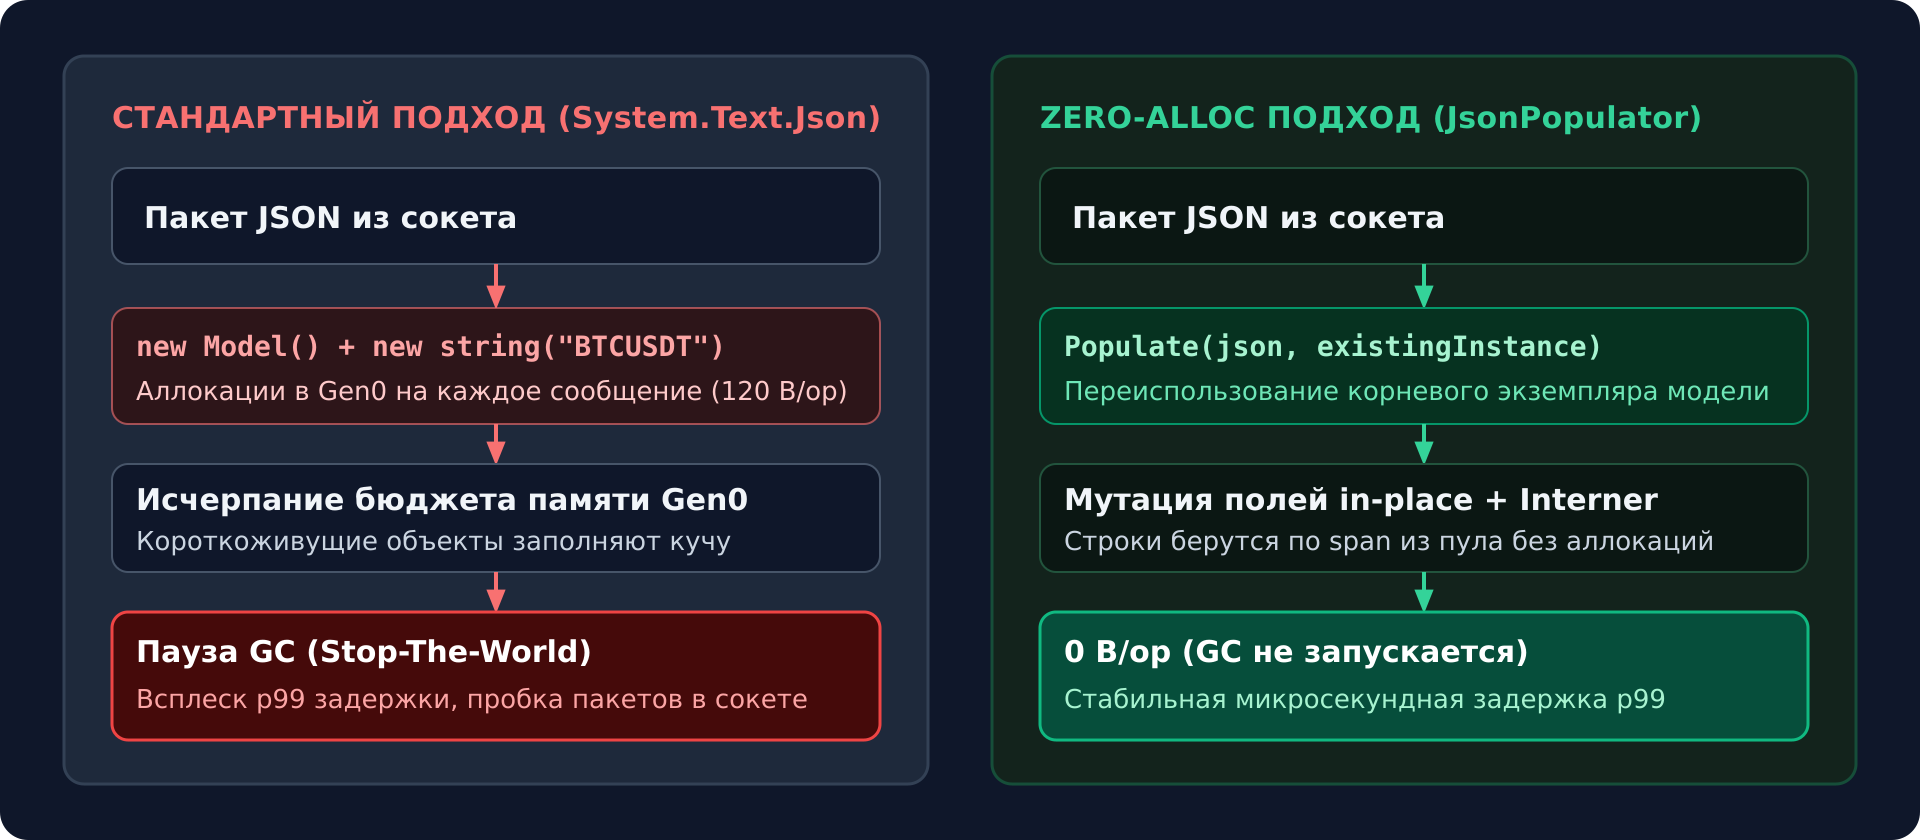
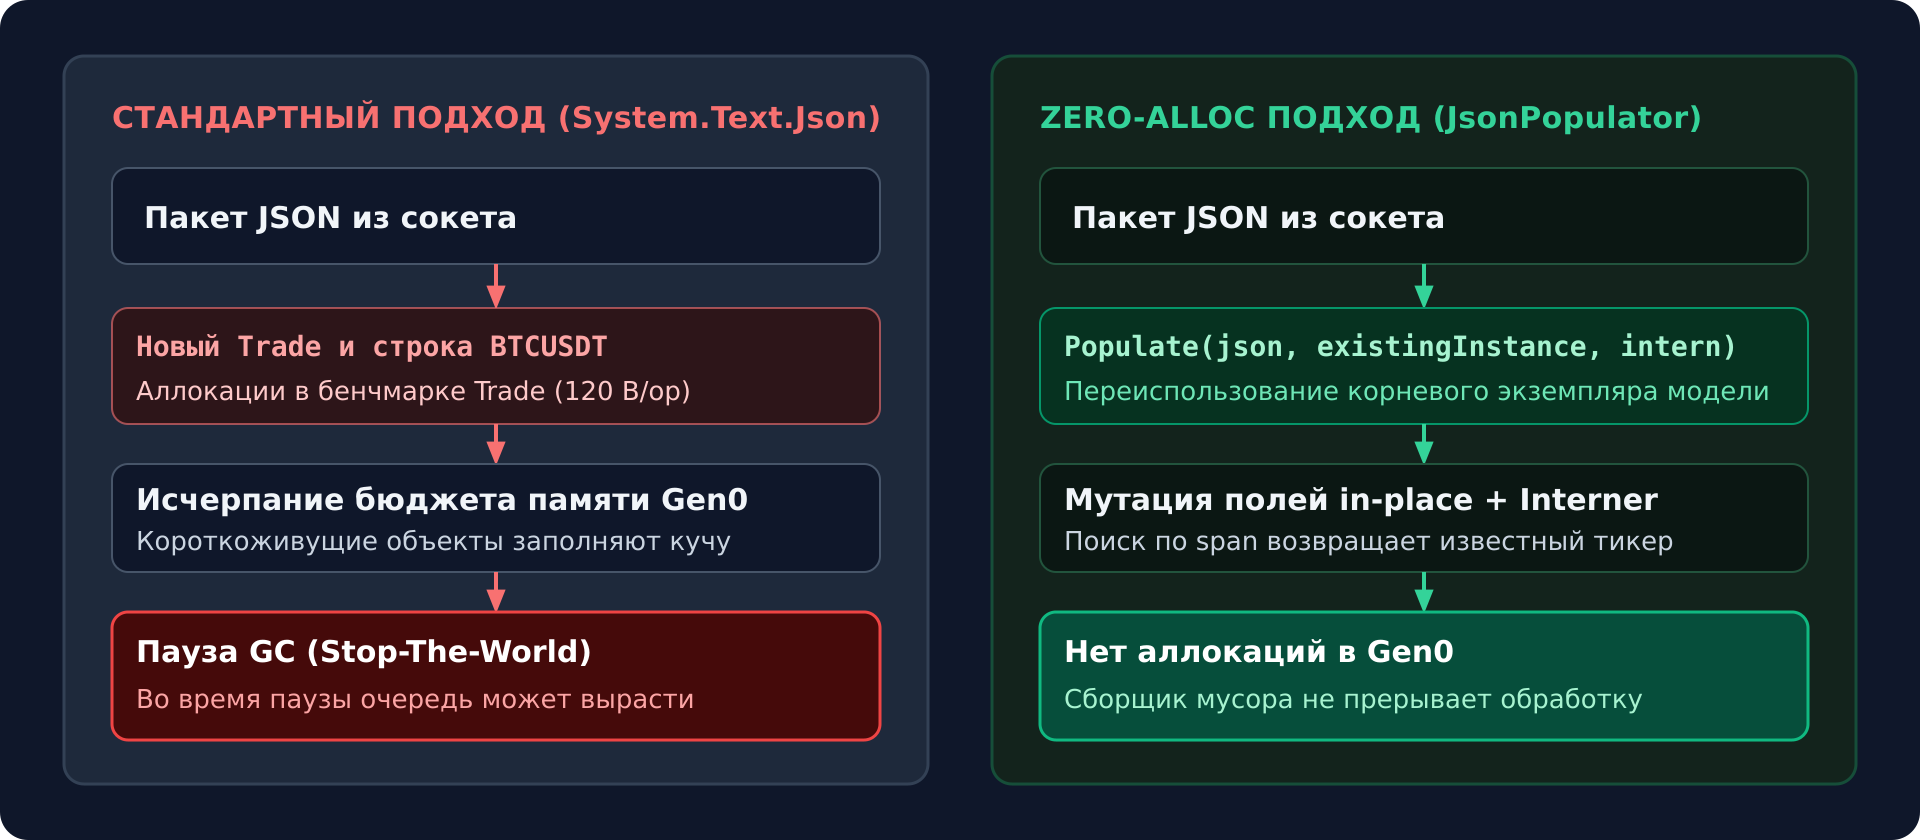
feat(zero-alloc-json): update illustrations and add gate benchmark report

diff --git a/zero-alloc-json/benchmarks/gate-contract.md b/zero-alloc-json/benchmarks/gate-contract.md
@@ -1,0 +1,35 @@
+# BenchmarkDotNet. Один контракт Gate
+
+Сохранённый локальный прогон от 24 ноября 2026 года. В отчёте указаны окружение и параметры. Точная ревизия исходников в исходном отчёте не зафиксирована.
+
[1 lines of base64/hex data omitted]
+
+Чтобы повторить сценарии с параметрами этого отчёта, из корня демо на указанной ревизии выполняется команда с .NET SDK 10.0.115 и runtime 10.0.15.
+
+```sh
+dotnet run -c Release --project benchmarks/ZeroAlloc.Json.Benchmarks -- \
+  --filter '*.LargeJsonParsingBenchmarks.*' \
+  --warmupCount 3 --iterationCount 10 --iterationTime 300 --launchCount 1 --exporters json
+```
+
+Прочерк в колонке `Allocated` означает 0 B/op.
+
+```text
+
+BenchmarkDotNet v0.15.8, Linux Ubuntu 24.04.3 LTS (Noble Numbat)
+AMD Ryzen 9 5950X 0.55GHz, 1 CPU, 32 logical and 16 physical cores
+.NET SDK 10.0.115
+  [Host]     : .NET 10.0.15 (10.0.15, 10.0.1526.53008), X64 RyuJIT x86-64-v3
+  Job-XJMUZM : .NET 10.0.15 (10.0.15, 10.0.1526.53008), X64 RyuJIT x86-64-v3
+
+IterationCount=10  IterationTime=300ms  LaunchCount=1  
+WarmupCount=3  
+
+```
+| Method                  | Mean     | Error     | StdDev    | Ratio | RatioSD | Gen0   | Allocated | Alloc Ratio |
+|------------------------ |---------:|----------:|----------:|------:|--------:|-------:|----------:|------------:|
+| SystemTextJson          | 2.481 μs | 0.0466 μs | 0.0308 μs |  1.00 |    0.02 | 0.0083 |     208 B |        1.00 |
+| PopulatorNewObject      | 2.016 μs | 0.0287 μs | 0.0190 μs |  0.81 |    0.01 | 0.0070 |     208 B |        1.00 |
+| PopulatorReusedObject   | 2.008 μs | 0.0441 μs | 0.0292 μs |  0.81 |    0.01 | 0.0066 |     120 B |        0.58 |
+| PopulatorReusedInterned | 1.847 μs | 0.0280 μs | 0.0185 μs |  0.74 |    0.01 |      - |         - |        0.00 |
+| PopulatorStructRef      | 1.872 μs | 0.0255 μs | 0.0168 μs |  0.75 |    0.01 |      - |         - |        0.00 |
